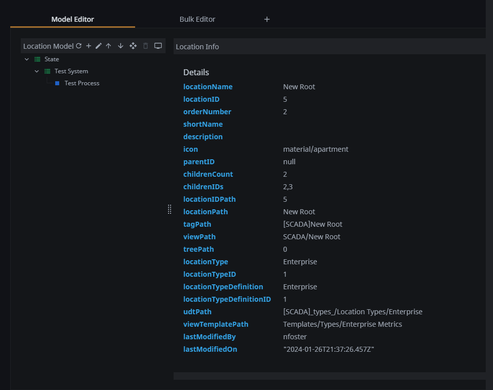
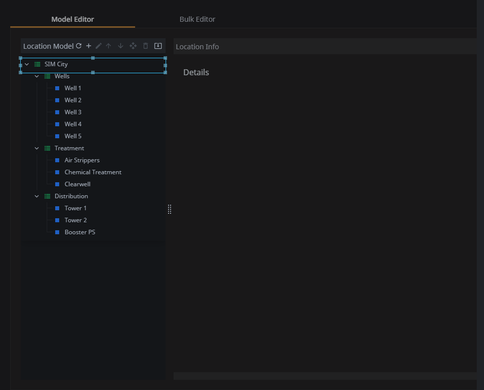
Update: create tags from model and other EOD misc

diff --git a/ignition/script-python/location/bulk/code.py b/ignition/script-python/location/bulk/code.py
@@ -36,8 +36,13 @@ def createLocation(locationName, locationTypeID, parentLocationID, locationTypeD
 		'database':dbName
 	}
 	
-	query = 'Location Model/' + dbType + '/addLocation'
-	system.db.runNamedQuery(query,params)	
+	if parentLocationID:
+		query = 'Location Model/' + dbType + '/addLocation'
+		system.db.runNamedQuery(query,params)	
+	else:
+		del params['ParentLocationID']
+		query = 'Location Model/' + dbType + '/addLocationToRoot'
+		system.db.runNamedQuery(query,params)	
 	
 	location.model.updateModelTag()
 
@@ -46,7 +51,7 @@ def createLocation(locationName, locationTypeID, parentLocationID, locationTypeD
 	modelTagPath = settings.getValue('Location Model', 'modelTagPath')
 	modelDS = system.tag.readBlocking(modelTagPath)[0].value
 	for row in range(modelDS.getRowCount()):
-		if modelDS.getValueAt(row,"parentID") == parentLocationID and modelDS.getValueAt(row,"locationName") == locationName:	
+		if (not modelDS.getValueAt(row,"parentID") or modelDS.getValueAt(row,"parentID") == parentLocationID) and modelDS.getValueAt(row,"locationName") == locationName:	
 			columnNames = modelDS.getColumnNames()
 			locationDetails = { columnName : modelDS.getValueAt(row,columnName) for columnName in columnNames }	
 		
@@ -69,25 +74,67 @@ def createLocationTag(locationDetails):
 
 	udtPath = locationDetails['udtPath']
 	tagPath = locationDetails['tagPath']
-	parentPath = '/'.join(tagPath.split('/')[:-1])
 	name = locationDetails['locationName']
-
-
-	# ---- create location folder -------
-	folder={
-			'tagType': 	'Folder',
-			'name':		name,
-			'tags':		[]
-		}
-	folderResults = system.tag.configure(basePath=parentPath, tags=folder, collisionPolicy = 'm')
 	
-	# --- create location UDT instance -------
-	tag={
-			"name": name,         
-			"typeId" : udtPath,
-			"tagType" : 'UdtInstance',
-		}
-	tagResults = system.tag.configure(basePath=tagPath, tags=tag, collisionPolicy = 'm')
+	if '/' in tagPath:
+		parentPath = '/'.join(tagPath.split('/')[:-1])
+		
+	# must be a root tag, hence [tagProvider] is the parent path
+	else:
+		parentPath = tageditor.util.getProvider(tagPath)
+
+
+	if not system.tag.exists(tagPath):
+		# ---- create location folder -------
+		folder={
+				'tagType': 	'Folder',
+				'name':		name,
+				'tags':		[]
+			}
+		folderResults = system.tag.configure(basePath=parentPath, tags=folder, collisionPolicy = 'm')
+	
+	
+	if not system.tag.exists(tagPath + '/' + name):
+		# --- create location UDT instance -------
+		tag={
+				"name": name,         
+				"typeId" : udtPath,
+				"tagType" : 'UdtInstance',
+			}
+		tagResults = system.tag.configure(basePath=tagPath, tags=tag, collisionPolicy = 'm')
+		
+		
+	if location.model.isProcess(locationDetails) and not system.tag.exists(tagPath + '/Alarming'):
+		# ---- create Alarming folder -------
+		folder={
+				'tagType': 	'Folder',
+				'name':		'Alarming',
+				'tags':		[]
+			}
+		folderResults = system.tag.configure(basePath=tagPath, tags=folder, collisionPolicy = 'm')
+
+
+
+
+#*****************************************************************************************************
+# Author:         Nate Foster
+# Date:           Jan 2024
+#*****************************************************************************************************	
+def createLocationTagsFromModel():
+
+	modelDS = system.tag.readBlocking(settings.getValue("Location Model", "modelTagPath"))[0].value
+
+	for row in range(modelDS.getRowCount()):
+		locationID = modelDS.getValueAt(row,"locationID")
+		locationDetails = location.model.getLocationDetails(locationID, modelDS)
+		locationTypeID = locationDetails['locationTypeID']
+
+		if not location.model.isComponent(locationDetails):
+			createLocationTag(locationDetails)
+
+
+
+
 
 
 
@@ -121,7 +168,7 @@ def getNewViewsForLocation(locationDetails):
 # Author:         Nate Foster
 # Date:           Sept 2022
 #*****************************************************************************************************	
-def getNewViewsForModel():
+def getNewViewsFromModel():
 	"""Gets all new views for the model.
 	
 	Returns:
@@ -135,8 +182,7 @@ def getNewViewsForModel():
 		locationDetails = location.model.getLocationDetails(locationID, modelDS)
 		locationTypeID = locationDetails['locationTypeID']
 
-		# if not a component
-		if locationTypeID != 7:
+		if not location.model.isComponent(locationDetails):
 			newViews = newViews + getNewViewsForLocation(locationDetails)
 
 	return newViews

diff --git a/ignition/script-python/location/model/code.py b/ignition/script-python/location/model/code.py
@@ -423,6 +423,26 @@ def getLocationID(locationPath):
 
 				
 	return locationID
+	
+
+def isProcess(locationDetails):
+	locationTypeID = locationDetails['locationTypeID']
+
+	if locationTypeID == 6:
+		return True
+	else:
+		return False
+
+
+def isComponent(locationDetails):
+	locationTypeID = locationDetails['locationTypeID']
+
+	if locationTypeID == 7:
+		return True
+	else:
+		return False
+	
+
 
 
 

diff --git a/ignition/script-python/tageditor/util/code.py b/ignition/script-python/tageditor/util/code.py
@@ -22,6 +22,8 @@ def sortTagConfigObj(tagConfigObj):
 
 	
 
+def getProvider(tagPath):
+	return tagPath.split(']')[0] + ']'
 
 
 
